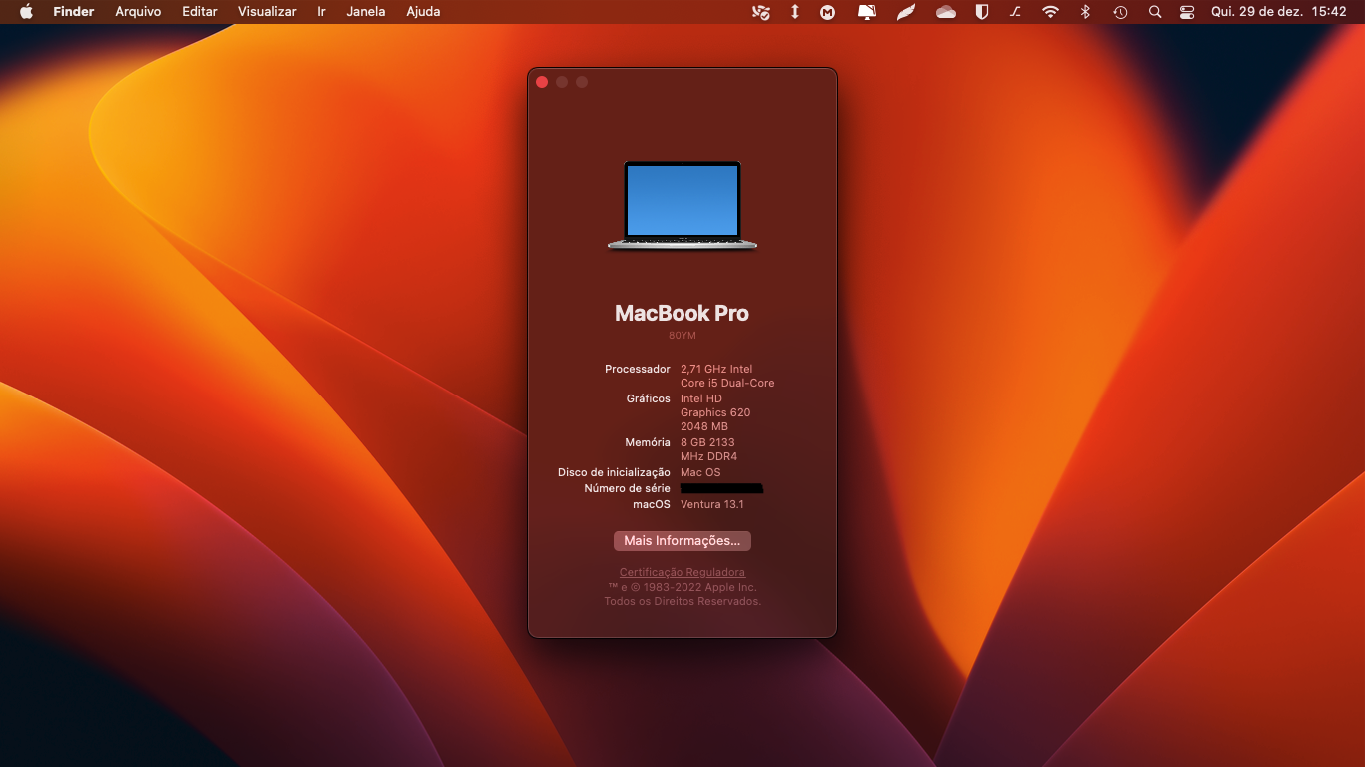
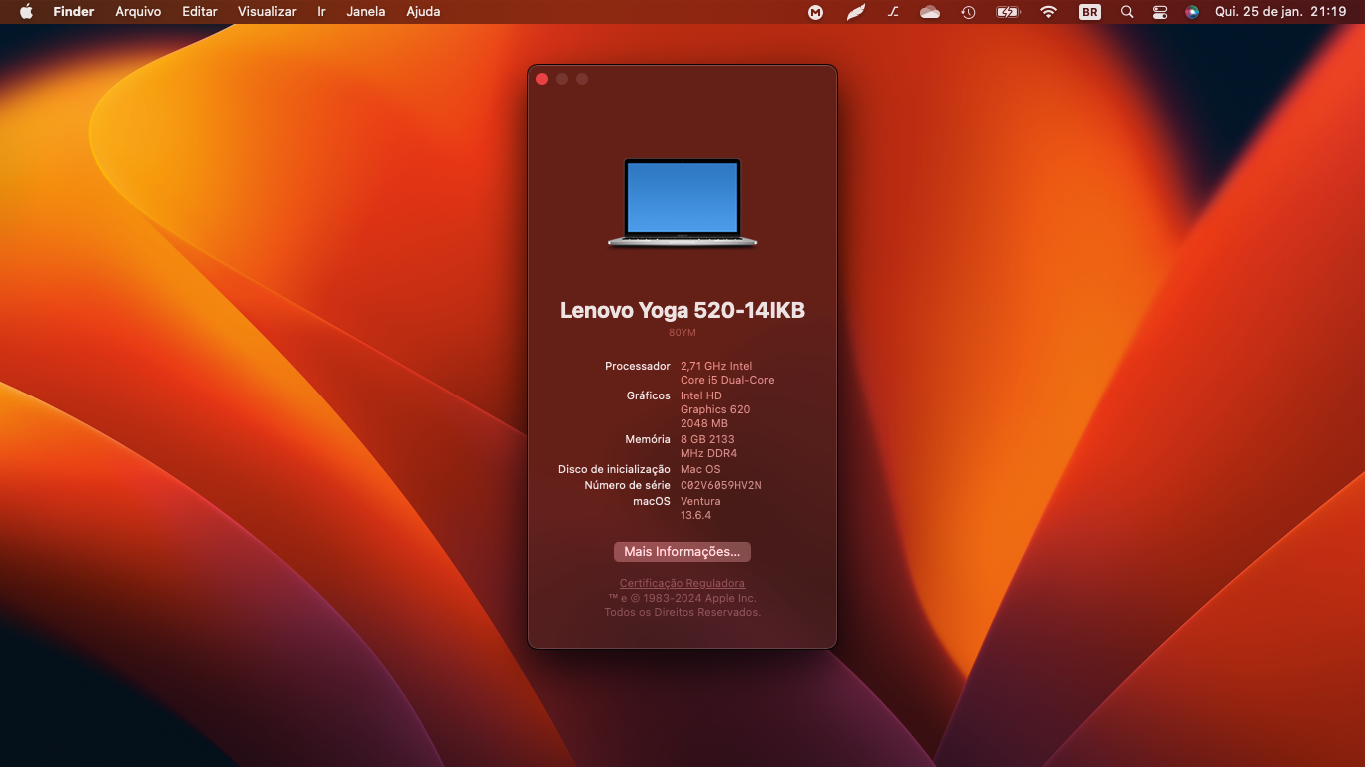
Alterado README e imagem "Sobre"

diff --git a/README.md b/README.md
@@ -1,7 +1,7 @@
 # Lenovo Yoga 520-14IKB (80YM) Opencore Hackintosh 
 [![Code](https://img.shields.io/badge/download-release-blue.svg)](https://github.com/miltoncsjunior/HackintoshOCYoga520-14IKB.git)
 
-A guide for installing macOS Ventura 13.6.3 on Lenovo Yoga 520-14IKB using OpenCore 0.9.7 UEFI.
+A guide for installing macOS Ventura 13.6.4 on Lenovo Yoga 520-14IKB using OpenCore 0.9.7 UEFI.
 ![](Images/Laptop.png)
 
 
@@ -61,12 +61,12 @@ Before doing anything, make sure to update your BIOS to the latest version
 
 ## Installation
 For a complete guide on how to create an installation disk on USB stick follow this [link](https://dortania.github.io/OpenCore-Install-Guide/installer-guide/mac-install.html)
-After create disk, mount the EFI partition in your USB, Copy-and-paste the folder `EFI` from this release's repository and generate MacBookPro14.1 SMBIOS (which is the closest one to this laptop's hardware) and change it, copy to config.plist, reboot your laptop and press `F12` to enter `BIOS Menu`, choose your USB installer and select boot from the USB that shown, it may take some time to boot, after is done, you should see `macOS Utilities`, choose `Disk Utility` and erase the drive you want to install macOS on it, click on `Erase` and type the name that you want, like: "Mac OS", choose the format as `APFS` and `Scheme` as `GUID Partition Map` and click `Erase`, after it's done, close the window and go back to `macOS Utilities` and choose `Install macOS`, click `Agree` to accept the license agreement, the installation should starts now, your laptop should restarts several times, after it's done, login to your AppleID (for more specific guide please go [here](https://dortania.github.io/oc-laptop-guide/)), after setting up your laptop, unzip the folder.
+After create disk, mount the EFI partition in your USB, Copy-and-paste the folder `EFI` from this release's repository and generate MacBookPro14.2 SMBIOS (which is the closest one to this laptop's hardware) and change it, copy to config.plist, reboot your laptop and press `F12` to enter `BIOS Menu`, choose your USB installer and select boot from the USB that shown, it may take some time to boot, after is done, you should see `macOS Utilities`, choose `Disk Utility` and erase the drive you want to install macOS on it, click on `Erase` and type the name that you want, like: "Mac OS", choose the format as `APFS` and `Scheme` as `GUID Partition Map` and click `Erase`, after it's done, close the window and go back to `macOS Utilities` and choose `Install macOS`, click `Agree` to accept the license agreement, the installation should starts now, your laptop should restarts several times, after it's done, login to your AppleID (for more specific guide please go [here](https://dortania.github.io/oc-laptop-guide/)), after setting up your laptop, unzip the folder.
 If you have problems with sleep please go [here](https://dortania.github.io/oc-laptop-guide/battery-power-management/correcting-sleep-problems.html).
 Restart, and you're ready to go!
 
 ## Extras (above Ventura)
-- After you finish the installation you'll notice that your iMessage and other Apple services aren't working properly, to fix that issue you have to add `ROM`, `MLB` and a proper SMBIOS (which is MacBookPro14.1 for this device) in your `config.plist`, for more information follow this guide from [here](https://dortania.github.io/OpenCore-Post-Install/universal/iservices.html#fixing-imessage-and-other-services-with-opencore).
+- After you finish the installation you'll notice that your iMessage and other Apple services aren't working properly, to fix that issue you have to add `ROM`, `MLB` and a proper SMBIOS (which is MacBookPro14.2 for this device) in your `config.plist`, for more information follow this guide from [here](https://dortania.github.io/OpenCore-Post-Install/universal/iservices.html#fixing-imessage-and-other-services-with-opencore).
 - If you don't like the name of your laptop that shown in "About This Mac", you can change it! Press Shift+Cmd+G <kbd>⇧⌘G</kbd> and copy-and-paste this path: `/Users/Username/Library/Preferences/com.apple.SystemProfiler.plist`, and remember, the word `Username` Is for your username, now download your favorite plist editor (mine is "PilstEdit Pro"), then you can change to `Lenovo Yoga 520-14IKB (80YM)` or any name you want.
 ![](Images/Edit.png)
 ![](Images/About_This_Mac.png)
